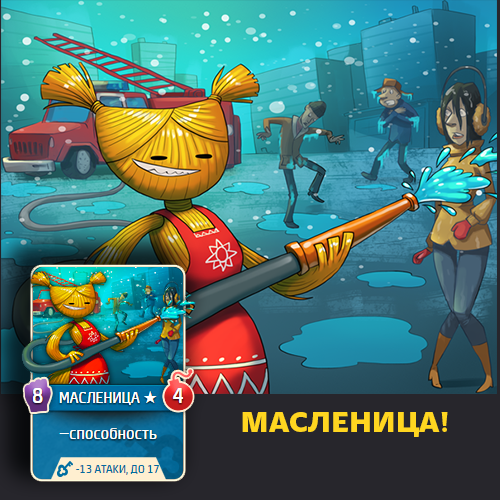
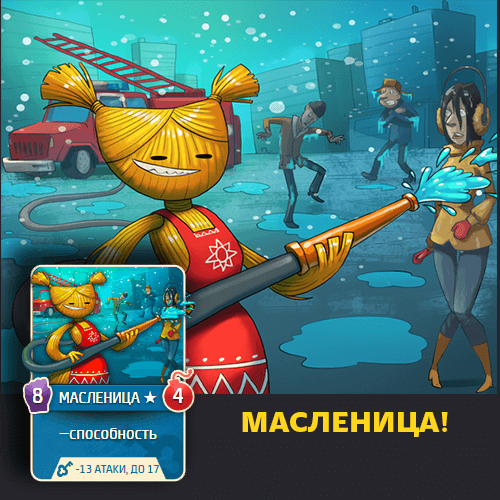
Compress large png images and fix some timer

diff --git a/app/helpers/static_pages_helper.rb b/app/helpers/static_pages_helper.rb
@@ -4,7 +4,7 @@ module StaticPagesHelper
         1771 => Time.new(2017, 3, 25), # Крампус
         1779 => Time.new(2017, 2, 23), # Тандер
         1781 => Time.new(2017, 3, 1), # Нифф
-        1808 => Time.new(2017, 3, 24), # Масленица
+        1808 => Time.new(2017, 3, 27), # Масленица
         1807 => Time.new(2017, 5, 10), # Илья
         1805 => Time.new(2017, 3, 17) # Мастер
     }
